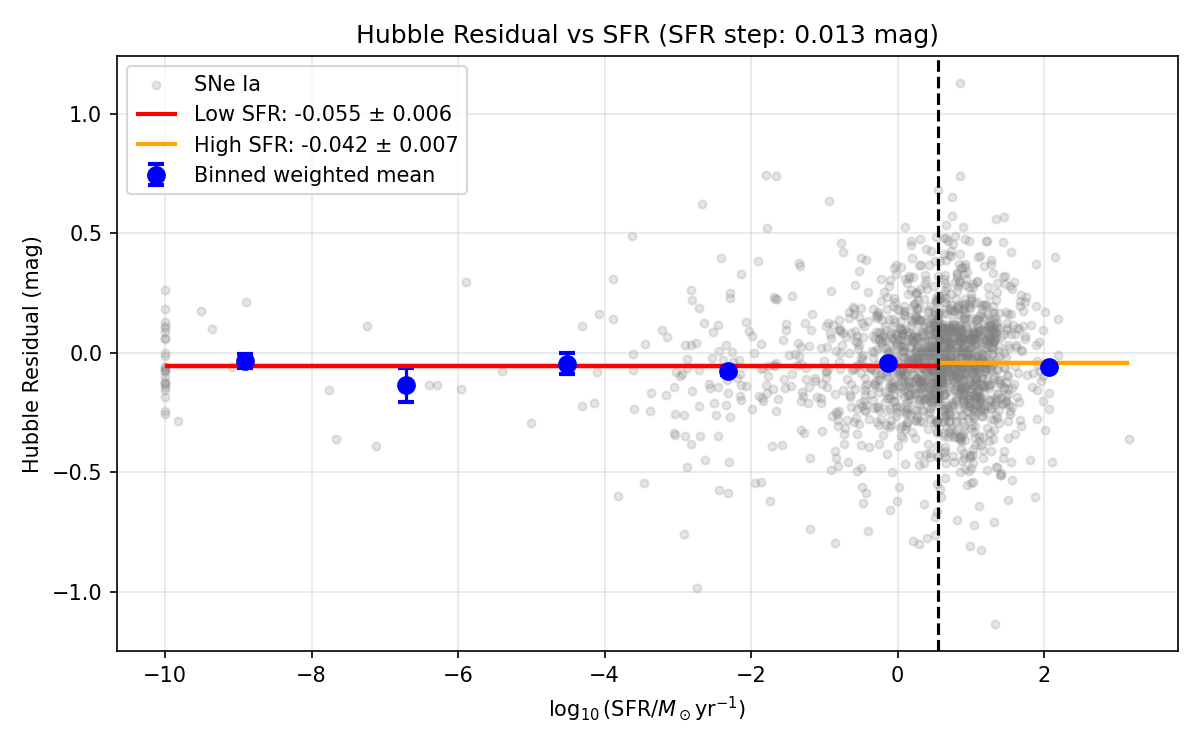
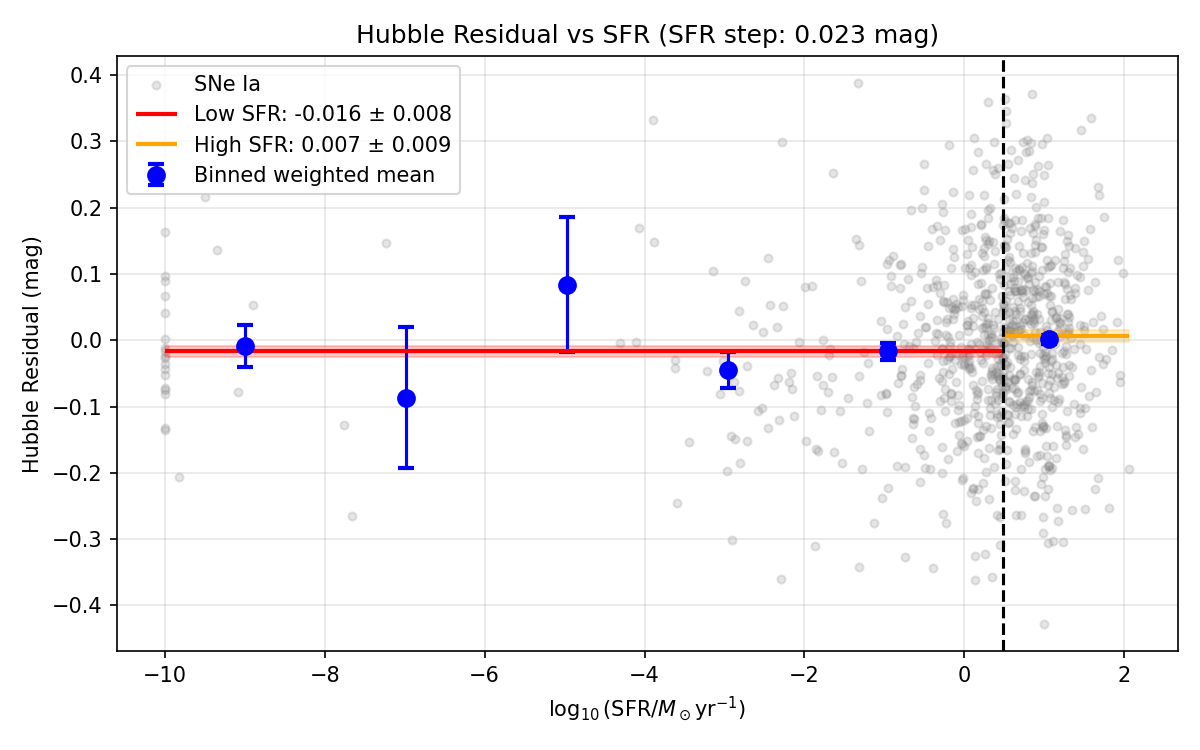
Quick changes
Renamed DES files
Included a bias factor when recalculating MU
Reran all files with new MU
Created a weighted probability system that prioritises SNe with a larger weight
Increased # of walkers and steps in MCMC

diff --git a/DES Analysis/DES_mass_step.py b/DES Analysis/DES_mass_step.py
@@ -1,0 +1,89 @@
+import matplotlib.pyplot as plt
+import numpy as np
+from pathlib import Path
+from data_handler import download_file, load_snana_format
+from analysis_tools import calculate_physics, get_weighted_stats, run_stats, binned_weighted_mean
+
+# LOAD DATA
+hd_path = download_file("4_DISTANCES_COVMAT/DES-Dovekie_HD.csv")
+meta_path = download_file("4_DISTANCES_COVMAT/DES-Dovekie_Metadata.csv")
+df = load_snana_format(hd_path).merge(load_snana_format(meta_path)[['CID', 'HOST_LOGMASS', 'mB', 'x1', 'c', 'x0', 'biasCor_mu']], on='CID')
+df = df[df['PROBIA_BEAMS'] > 0.95].dropna(subset=['zHD', 'mB', 'x1', 'c', 'x0', 'HOST_LOGMASS', 'MUERR'])
+
+# PHYSICS
+df = calculate_physics(df)
+
+# MASS STEP (WEIGHTED)
+low_df = df[df['HOST_LOGMASS'] < 10]
+high_df = df[df['HOST_LOGMASS'] >= 10]
+
+w_mean_low, w_err_low = get_weighted_stats(low_df['hubble_residual'], low_df['MUERR'])
+w_mean_high, w_err_high = get_weighted_stats(high_df['hubble_residual'], high_df['MUERR'])
+mass_step = w_mean_high - w_mean_low
+stats = run_stats(low_df['hubble_residual'], high_df['hubble_residual'])
+
+# BINNED WEIGHTED MEAN (no per-point error bars)
+bin_centers, bin_means, bin_errs = binned_weighted_mean(
+df['HOST_LOGMASS'].values, df['hubble_residual'].values, df['MUERR'].values, bins=6
+
+)
+valid = ~np.isnan(bin_means)
+
+# PRINT SUMMARY
+print("=" * 60)
+print("Hubble Residual vs Host Mass (Mass Step)")
+print("=" * 60)
+print(f"HOST_LOGMASS range: {df['HOST_LOGMASS'].min():.2f} -- {df['HOST_LOGMASS'].max():.2f}")
+print(f"Total SNe: {len(df)}")
+print()
+print(f"Low-mass hosts (log M* < 10):  {len(low_df)} SNe")
+print(f"High-mass hosts (log M* >= 10): {len(high_df)} SNe")
+print()
+print(f"Mean residual (low-mass):  {w_mean_low:+.4f} ± {w_err_low:.4f} mag")
+print(f"Mean residual (high-mass): {w_mean_high:+.4f} ± {w_err_high:.4f} mag")
+print(f"Mass step (high - low):    {mass_step:+.4f} mag")
+print()
+print("Two-sample t-test:")
+print(f"  t-statistic: {stats['t_stat']:.4f}")
+print(f"  p-value:     {stats['t_p']:.6f}")
+if stats['t_p'] < 0.05:
+    print("  Statistically significant (p < 0.05)")
+else:
+    print("  Not statistically significant (p >= 0.05)")
+print()
+print("Kolmogorov-Smirnov test:")
+print(f"  KS statistic: {stats['ks_stat']:.4f}")
+print(f"  p-value:      {stats['ks_p']:.6f}")
+if stats['ks_p'] < 0.05:
+    print("  Distributions differ (p < 0.05)")
+else:
+    print("  Distributions do not differ significantly (p >= 0.05)")
+print()
+print("Binned weighted means:")
+print(f"  {'Bin center (log M*)':<22} {'Weighted mean (mag)':<22} {'Uncertainty (mag)':<18}")
+print("-" * 65)
+for i in np.where(valid)[0]:
+    print(f"  {bin_centers[i]:<22.2f} {bin_means[i]:<22.4f} {bin_errs[i]:<18.4f}")
+print("=" * 60)
+
+# PLOT
+fig, ax = plt.subplots(figsize=(8, 5))
+ax.scatter(df['HOST_LOGMASS'], df['hubble_residual'], alpha=0.2, color='gray', s=15, label='SNe Ia')
+ax.errorbar(bin_centers[valid], bin_means[valid], yerr=bin_errs[valid], fmt='o', color='blue',
+            capsize=4, capthick=2, markersize=8, label='Binned weighted mean')
+ax.hlines(w_mean_low, 8, 10, colors='red', lw=2, label=f'Low mass: {w_mean_low:.3f} ± {w_err_low:.3f}')
+ax.hlines(w_mean_high, 10, 12, colors='orange', lw=2, label=f'High mass: {w_mean_high:.3f} ± {w_err_high:.3f}')
+ax.fill_between([8, 10], w_mean_low - w_err_low, w_mean_low + w_err_low, color='red', alpha=0.2)
+ax.fill_between([10, 12], w_mean_high - w_err_high, w_mean_high + w_err_high, color='orange', alpha=0.2)
+ax.axvline(10, color='black', linestyle='--')
+ax.set_title(f'Hubble Residual vs Host Mass (Mass step: {mass_step:.3f} mag)')
+ax.set_xlabel(r'$\log_{10}(M_{host}/M_\odot)$')
+ax.set_ylabel('Hubble Residual (mag)')
+ax.legend()
+ax.grid(True, alpha=0.3)
+plt.tight_layout()
+
+out_dir = Path(__file__).parent.parent / "outputs"
+out_dir.mkdir(exist_ok=True)
+plt.savefig(out_dir / "hubble_residual_vs_mass_step.png", dpi=150)
+plt.show()

diff --git a/DES Analysis/analysis_tools.py b/DES Analysis/analysis_tools.py
@@ -16,8 +16,8 @@ def calculate_physics(df, alpha=ALPHA, beta=BETA, m0=M0_AVG, omega_m=OMEGA_M):
     # Expected distance modulus from redshift
     df['mu_expected'] = cosmo.distmod(df['zHD']).value
 
-    # Recalculate MU without mass correction: μ = mB + α*x1 - β*c - M0 (no γ*step)
-    df['mu_no_mass'] = -2.5*np.log10(df['x0']) + (alpha * df['x1']) - (beta * df['c']) - m0
+    # Recalculate MU without mass correction: μ = mB + α*x1 - β*c - bias - M0 (no γ*step)
+    df['mu_no_mass'] = -2.5*np.log10(df['x0']) + (alpha * df['x1']) - (beta * df['c']) - (df["biasCor_mu"]) - m0
 
     # Residual (observed minus expected)
     df['hubble_residual'] = df['mu_no_mass'] - df['mu_expected']
@@ -55,4 +55,44 @@ def binned_weighted_mean(x, y, observational_errors, bins=6, sigma_int=0.11):
             mask = (x >= edges[i]) & (x <= edges[i + 1])
         if np.sum(mask) > 0:
             means[i], errs[i] = get_weighted_stats(y[mask], observational_errors[mask], sigma_int=sigma_int)
+    return centers, means, errs
+
+def get_weighted_stats_with_prob(residuals, observational_errors, probabilities, sigma_int=0.11):
+    """
+    Calculates weighted mean using:
+    1. Inverse Variance (1 / sigma^2)
+    2. Classification Probability (PROBIA_BEAMS)
+    """
+    # 1. Calculate the standard statistical weight (Inverse Variance)
+    total_variance = observational_errors**2 + sigma_int**2
+    variance_weight = 1 / total_variance
+    
+    # 2. Combine with the Probability Weight
+    # This gives more 'votes' to SNe with high PROBIA_BEAMS
+    combined_weights = variance_weight * probabilities
+    
+    # Weighted Average: Sum(Value * Weight) / Sum(Weight)
+    weighted_mean = np.sum(residuals * combined_weights) / np.sum(combined_weights)
+    
+    # Uncertainty of the weighted mean
+    uncertainty = 1 / np.sqrt(np.sum(combined_weights))
+    
+    return weighted_mean, uncertainty
+
+def binned_weighted_mean_with_prob(x, y, errors, probs, bins=6, sigma_int=0.11):
+    """Binned version using the probability-weighted logic."""
+    edges = np.linspace(x.min(), x.max(), bins + 1)
+    centers = (edges[:-1] + edges[1:]) / 2
+    means = np.full(bins, np.nan)
+    errs = np.full(bins, np.nan)
+    
+    for i in range(bins):
+        mask = (x >= edges[i]) & (x < edges[i + 1])
+        if i == bins - 1:
+            mask = (x >= edges[i]) & (x <= edges[i + 1])
+            
+        if np.sum(mask) > 0:
+            means[i], errs[i] = get_weighted_stats_with_prob(
+                y[mask], errors[mask], probs[mask], sigma_int=sigma_int
+            )
     return centers, means, errs

diff --git a/DES Analysis/DES_mass_step_weighted_prob.py b/DES Analysis/DES_mass_step_weighted_prob.py
@@ -2,13 +2,13 @@ import matplotlib.pyplot as plt
 import numpy as np
 from pathlib import Path
 from data_handler import download_file, load_snana_format
-from analysis_tools import calculate_physics, get_weighted_stats, run_stats, binned_weighted_mean
+from analysis_tools import calculate_physics, get_weighted_stats, run_stats, binned_weighted_mean, binned_weighted_mean_with_prob, get_weighted_stats_with_prob
 
 # LOAD DATA
 hd_path = download_file("4_DISTANCES_COVMAT/DES-Dovekie_HD.csv")
 meta_path = download_file("4_DISTANCES_COVMAT/DES-Dovekie_Metadata.csv")
-df = load_snana_format(hd_path).merge(load_snana_format(meta_path)[['CID', 'HOST_LOGMASS', 'mB', 'x1', 'c', 'x0']], on='CID')
-df = df[df['PROBIA_BEAMS'] > 0.95].dropna(subset=['zHD', 'mB', 'x1', 'c', 'x0', 'HOST_LOGMASS', 'MUERR'])
+df = load_snana_format(hd_path).merge(load_snana_format(meta_path)[['CID', 'HOST_LOGMASS', 'mB', 'x1', 'c', 'x0', 'biasCor_mu']], on='CID')
+df = df[df['PROBIA_BEAMS'] > 0.0].dropna(subset=['zHD', 'mB', 'x1', 'c', 'x0', 'HOST_LOGMASS', 'MUERR'])
 
 # PHYSICS
 df = calculate_physics(df)
@@ -17,14 +17,18 @@ df = calculate_physics(df)
 low_df = df[df['HOST_LOGMASS'] < 10]
 high_df = df[df['HOST_LOGMASS'] >= 10]
 
-w_mean_low, w_err_low = get_weighted_stats(low_df['hubble_residual'], low_df['MUERR'])
-w_mean_high, w_err_high = get_weighted_stats(high_df['hubble_residual'], high_df['MUERR'])
+w_mean_low, w_err_low = get_weighted_stats_with_prob(low_df['hubble_residual'], low_df['MUERR'], low_df['PROBIA_BEAMS'])
+w_mean_high, w_err_high = get_weighted_stats_with_prob(high_df['hubble_residual'], high_df['MUERR'], high_df['PROBIA_BEAMS'])
 mass_step = w_mean_high - w_mean_low
 stats = run_stats(low_df['hubble_residual'], high_df['hubble_residual'])
 
-# BINNED WEIGHTED MEAN (no per-point error bars)
-bin_centers, bin_means, bin_errs = binned_weighted_mean(
-    df['HOST_LOGMASS'].values, df['hubble_residual'].values, df['MUERR'].values, bins=6
+# BINNED WEIGHTED MEAN
+bin_centers, bin_means, bin_errs = binned_weighted_mean_with_prob(
+    df['HOST_LOGMASS'].values, 
+    df['hubble_residual'].values, 
+    df['MUERR'].values, 
+    df['PROBIA_BEAMS'].values, 
+    bins=6
 )
 valid = ~np.isnan(bin_means)
 

diff --git a/MCMC/MCMC.py b/MCMC/MCMC.py
@@ -19,7 +19,7 @@ meta_path = download_file("4_DISTANCES_COVMAT/DES-Dovekie_Metadata.csv")
 # LOAD DES
 df_hd = load_snana_format(hd_path).query("PROBIA_BEAMS > 0.999999")
 df_hd["CID_num"] = pd.to_numeric(df_hd["CID"], errors="coerce")
-df_meta = load_snana_format(meta_path)[['CID', 'mB', 'x1', 'c', 'x0']]
+df_meta = load_snana_format(meta_path)[['CID', 'mB', 'x1', 'c', 'x0', 'biasCor_mu']]
 
 # DICTIONARY FOR PROPERTIES
 e_cols = {
@@ -83,8 +83,8 @@ splits = np.median(X, axis=0)
 data = (X, y, yerr, splits)
 
 # Initialise MCMC
-nwalkers = 500
-niter = 1024
+nwalkers = 64
+niter = 30000
 # Initial guesses,  tiny steps (0.02) and zero offset
 initial = np.array([0.02, 0.02, 0.02, 0.0])
 ndim = len(initial)
@@ -94,11 +94,13 @@ p0 = [initial + 1e-5 * np.random.randn(ndim) for i in range(nwalkers)]
 def main(p0, nwalkers, niter, ndim, lnprob, data):
     sampler = emcee.EnsembleSampler(nwalkers, ndim, lnprob, args=data)
     print("Running burn-in...")
-    p0, _, _ = sampler.run_mcmc(p0, 500) # 500 step burn-in
+    p0, _, _ = sampler.run_mcmc(p0, 5000) # 500 step burn-in
     sampler.reset()
     print("Running production...")
     pos, prob, state = sampler.run_mcmc(p0, niter)
-    return sampler, pos, prob, state
+    tau = sampler.get_autocorr_time()
+    print(tau)
+    return sampler, pos, prob, state 
 
 new_sampler, newpos, newprob, newstate = main(p0, nwalkers, niter, ndim, lnprob, data)
 new_samples = new_sampler.flatchain
@@ -147,3 +149,4 @@ out_dir = ROOT_DIR / "outputs"
 out_dir.mkdir(exist_ok=True)
 plt.savefig(out_dir / "MCMC_Corner_Plot.png", dpi=150)
 plt.show()
+

diff --git a/DES Analysis/DES_angsep_mass_steps.py b/DES Analysis/DES_angsep_mass_steps.py
@@ -9,7 +9,7 @@ from analysis_tools import calculate_physics, get_weighted_stats, run_stats, bin
 hd_path = download_file("4_DISTANCES_COVMAT/DES-Dovekie_HD.csv")
 meta_path = download_file("4_DISTANCES_COVMAT/DES-Dovekie_Metadata.csv")
 df = load_snana_format(hd_path).merge(
-    load_snana_format(meta_path)[['CID', 'HOST_LOGMASS', 'mB', 'x1', 'c', 'HOST_ANGSEP', "x0"]],
+    load_snana_format(meta_path)[['CID', 'HOST_LOGMASS', 'mB', 'x1', 'c', 'HOST_ANGSEP', "x0", "biasCor_mu"]],
     on='CID'
 )
 df = df[df['PROBIA_BEAMS'] > 0.999999].dropna(subset=['zHD', 'mB', 'x1', 'c', 'HOST_LOGMASS', 'MUERR', 'HOST_ANGSEP', "x0"])
@@ -71,9 +71,9 @@ def compute_mass_step(group_df, title_suffix):
     print(f"  t-statistic: {stats['t_stat']:.4f}")
     print(f"  p-value:     {stats['t_p']:.6f}")
     if stats['t_p'] < 0.05:
-        print("  → Statistically significant (p < 0.05)")
+        print("  Statistically significant (p < 0.05)")
     else:
-        print("  → Not statistically significant (p ≥ 0.05)")
+        print("  Not statistically significant (p ≥ 0.05)")
     print()
 
     print("Kolmogorov–Smirnov test:")

diff --git a/Euclid Analysis/euclid_sfhage_step.py b/Euclid Analysis/euclid_sfhage_step.py
@@ -23,14 +23,14 @@ df_hd = load_snana_format(hd_path)
 df_meta = load_snana_format(meta_path)
 df_hd["CID_num"] = pd.to_numeric(df_hd["CID"], errors="coerce")
 df_hd = df_hd.dropna(subset=["CID_num", "zHD", "MU", "MUERR"]).copy()
-df_hd = df_hd[df_hd["PROBIA_BEAMS"] > 0.999999]
+df_hd = df_hd[df_hd["PROBIA_BEAMS"] > 0.95]
 
 # MERGE EUCLID WITH DES (DES_ID_x = CID)
 df = df_euclid[["DES_ID_x", "SFH_AGE"]].merge(
     df_hd[["CID_num", "CID", "zHD", "MU", "MUERR", "PROBIA_BEAMS"]],
     left_on="DES_ID_x", right_on="CID_num", how="inner"
 )
-df = df.merge(df_meta[["CID", "mB", "x1", "c", "x0"]], on="CID", how="left")
+df = df.merge(df_meta[["CID", "mB", "x1", "c", "x0", "biasCor_mu"]], on="CID", how="left")
 df = df.dropna(subset=["zHD", "mB", "x1", "c", "SFH_AGE", "MUERR", "x0"])
 
 # PHYSICS

diff --git a/Euclid Analysis/euclid_sfr_threshhold_pass_both.py b/Euclid Analysis/euclid_sfr_threshhold_pass_both.py
@@ -23,14 +23,14 @@ df_hd = load_snana_format(hd_path)
 df_meta = load_snana_format(meta_path)
 df_hd["CID_num"] = pd.to_numeric(df_hd["CID"], errors="coerce")
 df_hd = df_hd.dropna(subset=["CID_num", "zHD", "MU", "MUERR"]).copy()
-df_hd = df_hd[df_hd["PROBIA_BEAMS"] > 0.999999]
+df_hd = df_hd[df_hd["PROBIA_BEAMS"] > 0.95]
 
 # MERGE EUCLID WITH DES (DES_ID_x = CID)
 df = df_euclid[["DES_ID_x", "SFR"]].merge(
     df_hd[["CID_num", "CID", "zHD", "MU", "MUERR", "PROBIA_BEAMS"]],
     left_on="DES_ID_x", right_on="CID_num", how="inner"
 )
-df = df.merge(df_meta[["CID", "mB", "x1", "c", "x0"]], on="CID", how="left")
+df = df.merge(df_meta[["CID", "mB", "x1", "c", "x0", "biasCor_mu"]], on="CID", how="left")
 df = df.dropna(subset=["zHD", "mB", "x1", "c", "SFR", "MUERR", "x0"])
 
 # PHYSICS

diff --git a/Euclid Analysis/euclid_sfr_threshhold_pass_t.py b/Euclid Analysis/euclid_sfr_threshhold_pass_t.py
@@ -23,14 +23,14 @@ df_hd = load_snana_format(hd_path)
 df_meta = load_snana_format(meta_path)
 df_hd["CID_num"] = pd.to_numeric(df_hd["CID"], errors="coerce")
 df_hd = df_hd.dropna(subset=["CID_num", "zHD", "MU", "MUERR"]).copy()
-df_hd = df_hd[df_hd["PROBIA_BEAMS"] > 0.999999]
+df_hd = df_hd[df_hd["PROBIA_BEAMS"] > 0.95]
 
 # MERGE EUCLID WITH DES (DES_ID_x = CID)
 df = df_euclid[["DES_ID_x", "SFR"]].merge(
     df_hd[["CID_num", "CID", "zHD", "MU", "MUERR", "PROBIA_BEAMS"]],
     left_on="DES_ID_x", right_on="CID_num", how="inner"
 )
-df = df.merge(df_meta[["CID", "mB", "x1", "c", "x0"]], on="CID", how="left")
+df = df.merge(df_meta[["CID", "mB", "x1", "c", "x0", "biasCor_mu"]], on="CID", how="left")
 df = df.dropna(subset=["zHD", "mB", "x1", "c", "SFR", "MUERR", "x0"])
 
 # PHYSICS

diff --git a/DES Analysis/DES_SFR.py b/DES Analysis/DES_SFR.py
@@ -7,8 +7,8 @@ from analysis_tools import calculate_physics, get_weighted_stats, run_stats, bin
 # LOAD DATA
 hd_path = download_file("4_DISTANCES_COVMAT/DES-Dovekie_HD.csv")
 meta_path = download_file("4_DISTANCES_COVMAT/DES-Dovekie_Metadata.csv")
-df = load_snana_format(hd_path).merge(load_snana_format(meta_path)[['CID', 'HOST_LOGSFR', 'mB', 'x1', 'c', "x0"]], on='CID')
-df = df[df['PROBIA_BEAMS'] > 0.95].dropna(subset=['zHD', 'mB', 'x1', 'c', 'HOST_LOGSFR', 'MUERR', "x0"])
+df = load_snana_format(hd_path).merge(load_snana_format(meta_path)[['CID', 'HOST_LOGSFR', 'mB', 'x1', 'c', "x0", "biasCor_mu"]], on='CID')
+df = df[df['PROBIA_BEAMS'] > 0.999999].dropna(subset=['zHD', 'mB', 'x1', 'c', 'HOST_LOGSFR', 'MUERR', "x0"])
 
 # PHYSICS
 df = calculate_physics(df)

diff --git a/Euclid Analysis/analysis_tools.py b/Euclid Analysis/analysis_tools.py
@@ -16,8 +16,8 @@ def calculate_physics(df, alpha=ALPHA, beta=BETA, m0=M0_AVG, omega_m=OMEGA_M):
     # Expected distance modulus from redshift
     df['mu_expected'] = cosmo.distmod(df['zHD']).value
 
-    # Recalculate MU without mass correction: μ = mB + α*x1 - β*c - M0 (no γ*step)
-    df['mu_no_mass'] = -2.5*np.log10(df['x0']) + (alpha * df['x1']) - (beta * df['c']) - m0
+    # Recalculate MU without mass correction: μ = mB + α*x1 - β*c - bias - M0 (no γ*step)
+    df['mu_no_mass'] = -2.5*np.log10(df['x0']) + (alpha * df['x1']) - (beta * df['c']) - (df["biasCor_mu"]) - m0
 
     # Residual (observed minus expected)
     df['hubble_residual'] = df['mu_no_mass'] - df['mu_expected']

diff --git a/MCMC/analysis_tools.py b/MCMC/analysis_tools.py
@@ -16,8 +16,8 @@ def calculate_physics(df, alpha=ALPHA, beta=BETA, m0=M0_AVG, omega_m=OMEGA_M):
     # Expected distance modulus from redshift
     df['mu_expected'] = cosmo.distmod(df['zHD']).value
 
-    # Recalculate MU without mass correction: μ = mB + α*x1 - β*c - M0 (no γ*step)
-    df['mu_no_mass'] = -2.5*np.log10(df['x0']) + (alpha * df['x1']) - (beta * df['c']) - m0
+    # Recalculate MU without mass correction: μ = mB + α*x1 - β*c - bias - M0 (no γ*step)
+    df['mu_no_mass'] = -2.5*np.log10(df['x0']) + (alpha * df['x1']) - (beta * df['c']) - (df["biasCor_mu"]) - m0
 
     # Residual (observed minus expected)
     df['hubble_residual'] = df['mu_no_mass'] - df['mu_expected']

diff --git a/Euclid Analysis/euclid_mass_step.py b/Euclid Analysis/euclid_mass_step.py
@@ -33,7 +33,7 @@ df = df_euclid[["DES_ID_x", "HOST_LOGMASS"]].merge(
     df_hd[["CID_num", "CID", "zHD", "MU", "MUERR", "PROBIA_BEAMS"]],
     left_on="DES_ID_x", right_on="CID_num", how="inner"
 )
-df = df.merge(df_meta[["CID", "mB", "x1", "c", "x0"]], on="CID", how="left")
+df = df.merge(df_meta[["CID", "mB", "x1", "c", "x0", "biasCor_mu"]], on="CID", how="left")
 df = df.dropna(subset=["zHD", "mB", "x1", "c", "HOST_LOGMASS", "MUERR", "x0"])
 
 # PHYSICS
